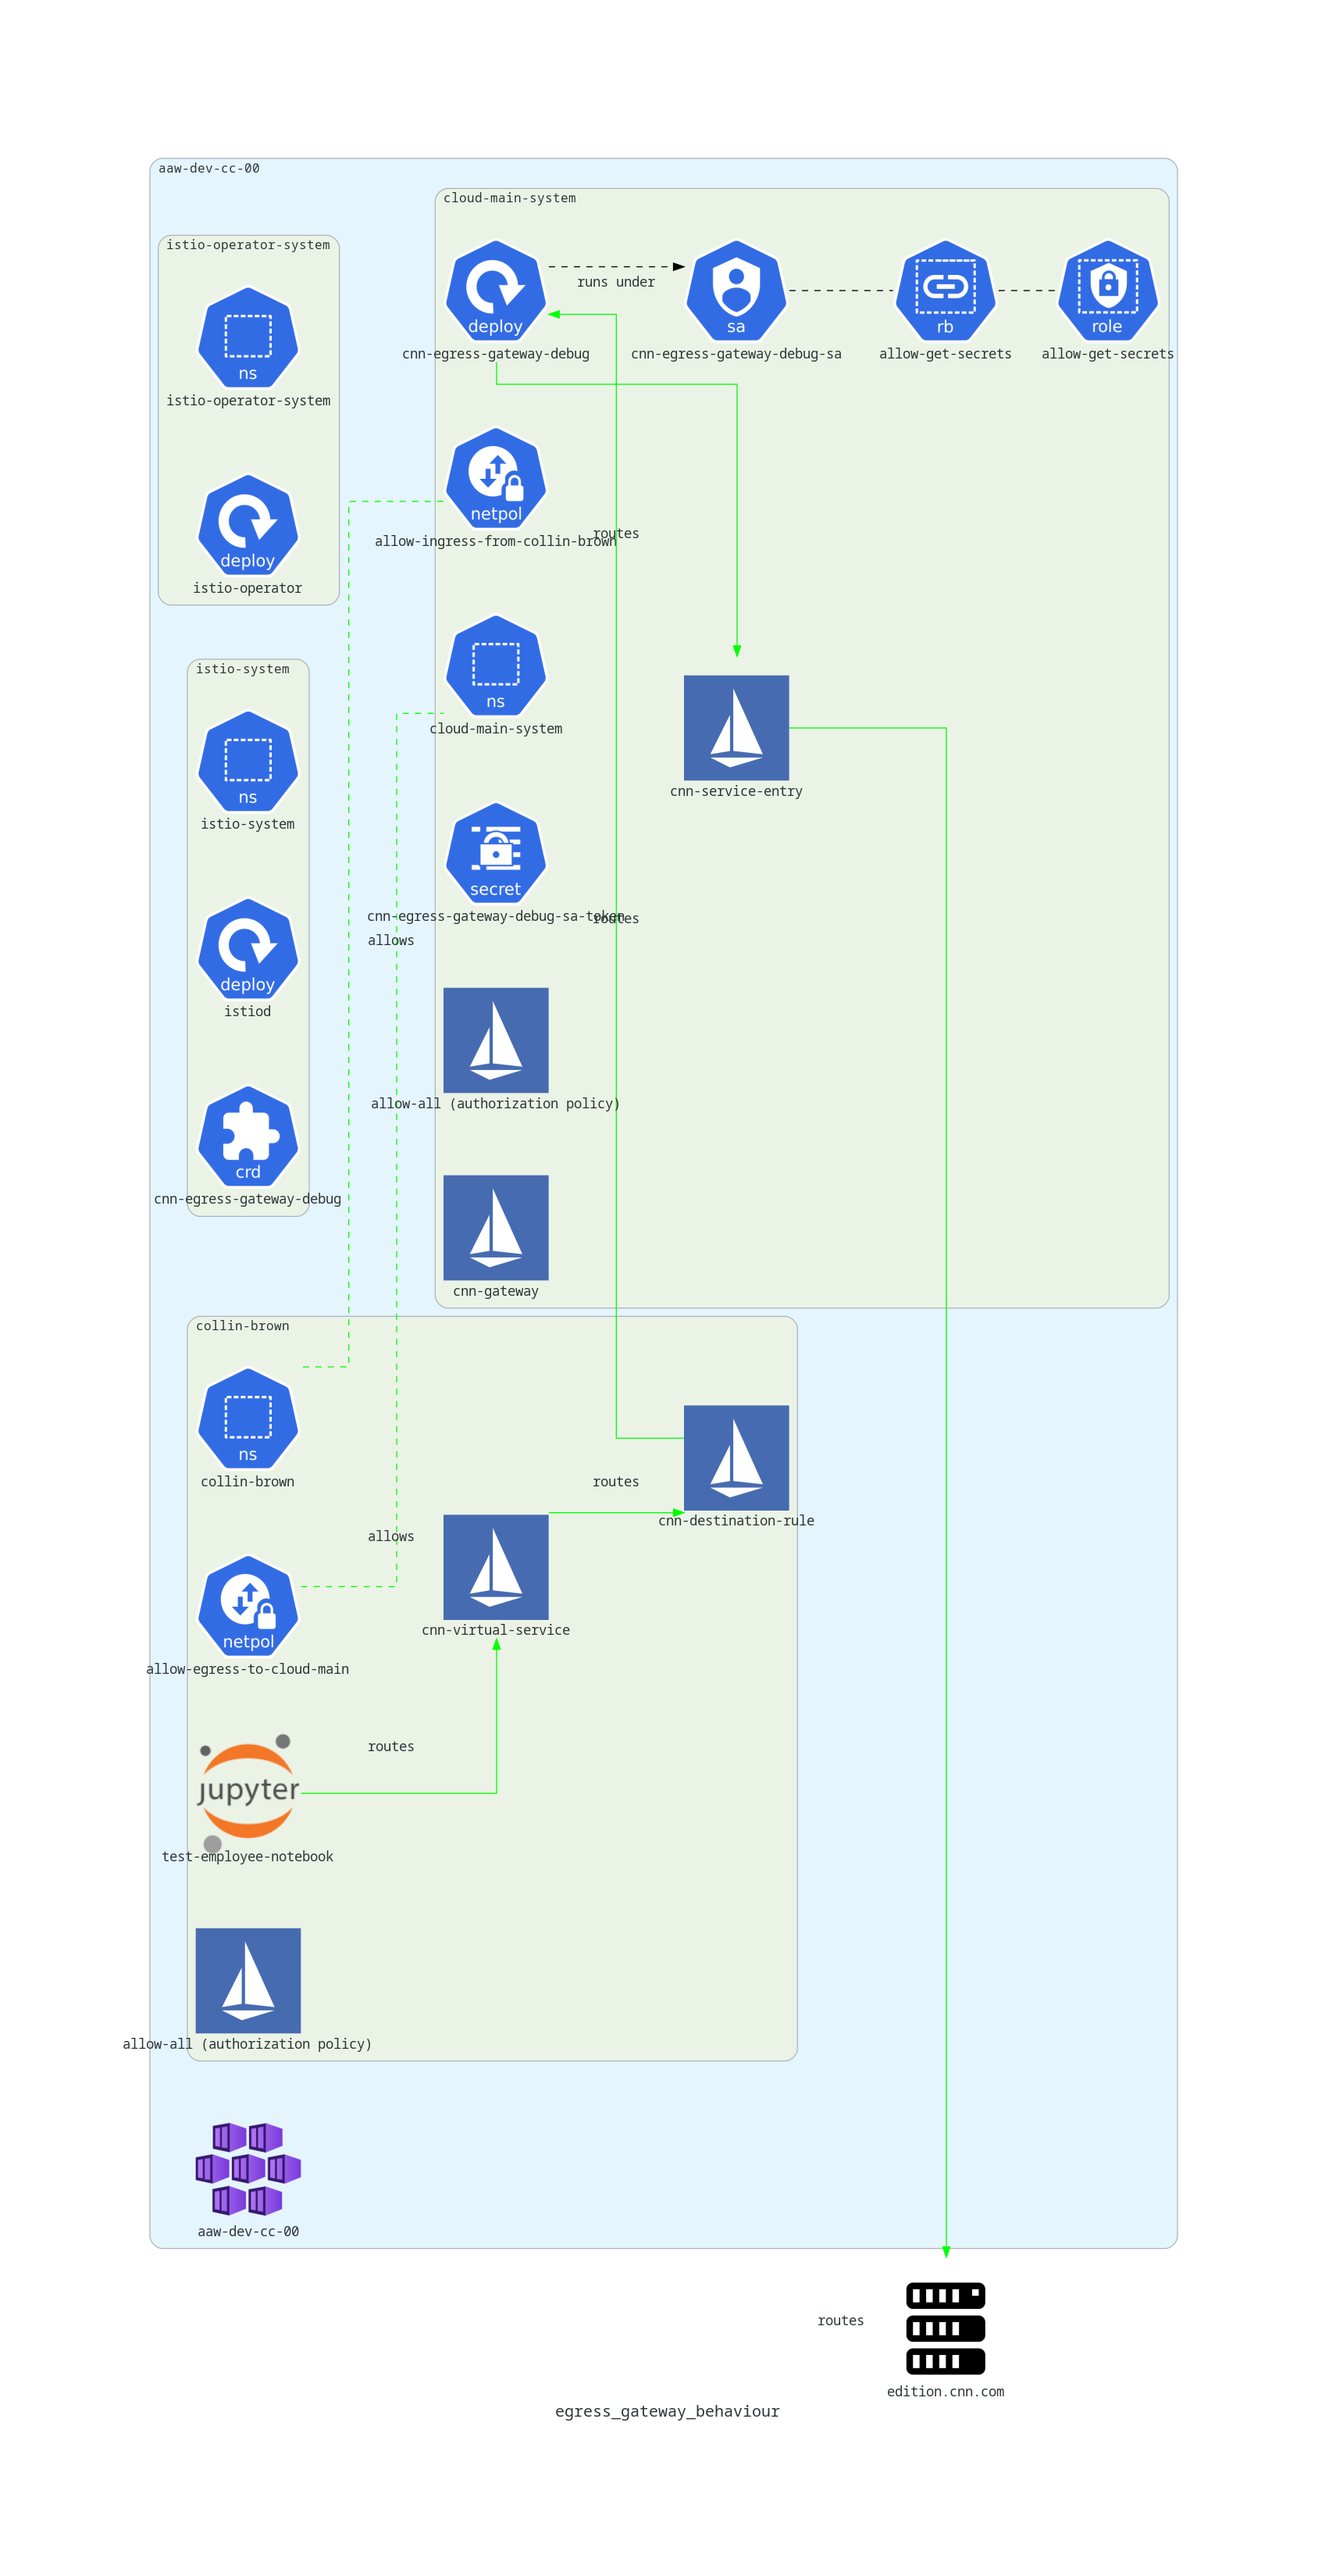
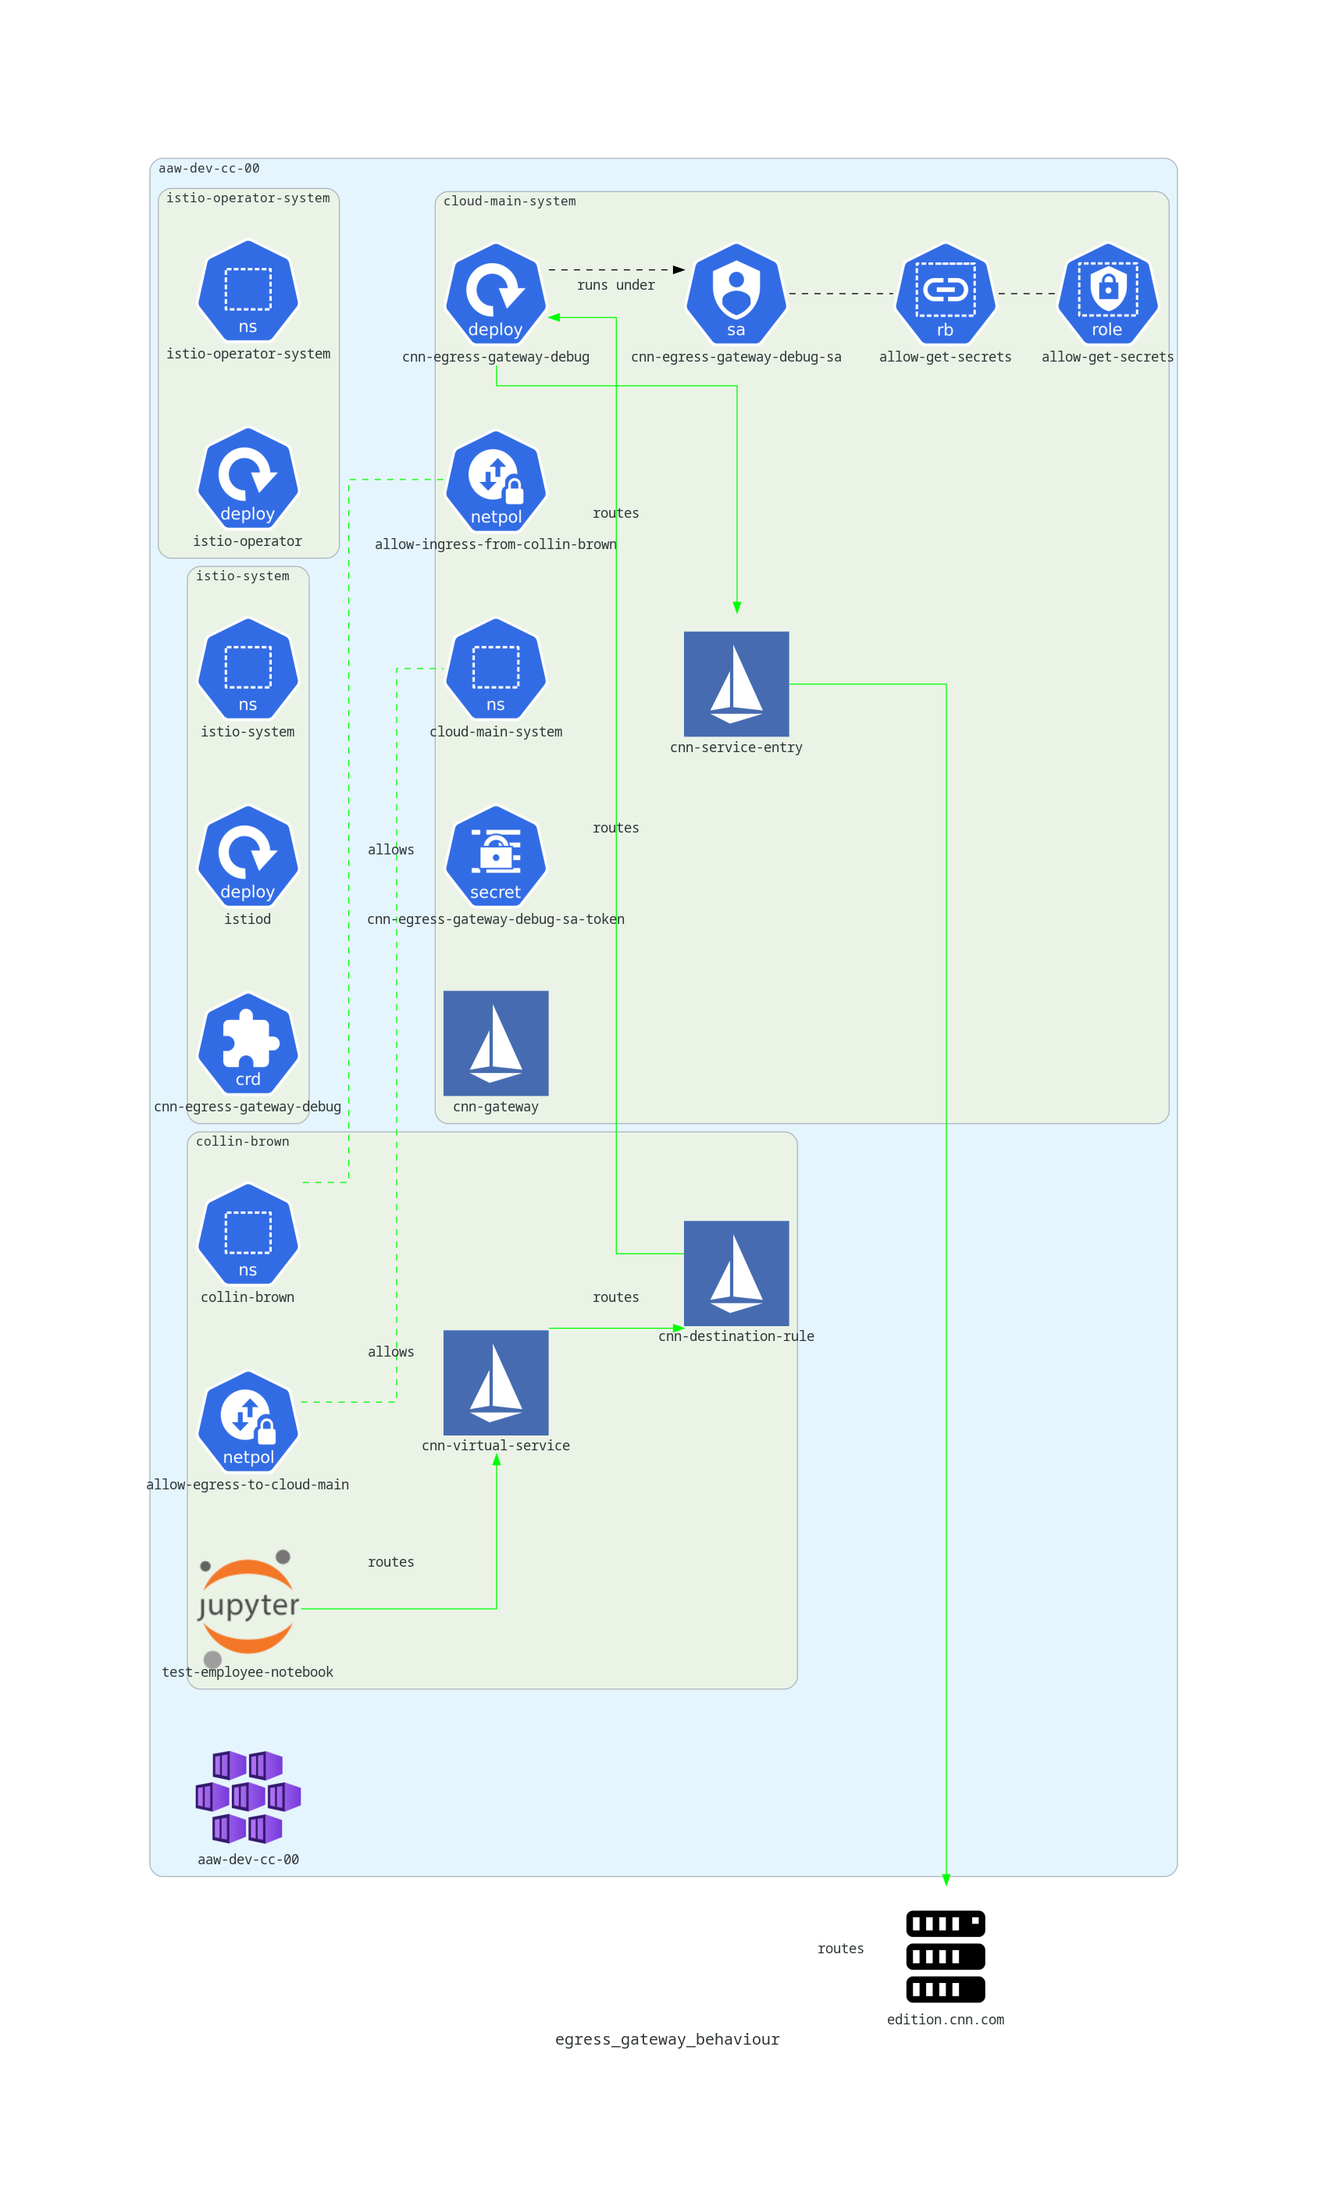
feat(authorizationpolicy): remove authorization policy

diff --git a/diagrams/egress_gateway_behaviour.py b/diagrams/egress_gateway_behaviour.py
@@ -40,7 +40,6 @@ with Diagram(myself(), show=False):
             # network policy
             allow_ingress_from_collin_brown = NetworkPolicy("allow-ingress-from-collin-brown")
             # istio
-            allow_all_ap_cms = Custom("allow-all (authorization policy)", icon_path="icons/istio.png")
             cnn_gateway = Custom("cnn-gateway", icon_path="icons/istio.png")
             cnn_service_entry = Custom("cnn-service-entry", icon_path="icons/istio.png")
         with Cluster("collin-brown"):
@@ -49,7 +48,6 @@ with Diagram(myself(), show=False):
             # network policy
             allow_egress_to_cloud_main = NetworkPolicy("allow-egress-to-cloud-main")
             # istio
-            allow_all_ap_cb = Custom("allow-all (authorization policy)", icon_path="icons/istio.png")
             cnn_virtual_service = Custom("cnn-virtual-service", icon_path="icons/istio.png")
             cnn_destination_rule = Custom("cnn-destination-rule", icon_path="icons/istio.png")
 

diff --git a/diagrams/egress_gateway_deployed_components.py b/diagrams/egress_gateway_deployed_components.py
@@ -40,7 +40,6 @@ with Diagram(myself(), show=False):
             # network policy
             allow_ingress_from_collin_brown = NetworkPolicy("allow-ingress-from-collin-brown")
             # istio
-            allow_all_ap_cms = Custom("allow-all (authorization policy)", icon_path="icons/istio.png")
             cnn_gateway = Custom("cnn-gateway", icon_path="icons/istio.png")
             cnn_service_entry = Custom("cnn-service-entry", icon_path="icons/istio.png")
         with Cluster("collin-brown"):
@@ -49,7 +48,6 @@ with Diagram(myself(), show=False):
             # network policy
             allow_egress_to_cloud_main = NetworkPolicy("allow-egress-to-cloud-main")
             # istio
-            allow_all_ap_cb = Custom("allow-all (authorization policy)", icon_path="icons/istio.png")
             cnn_virtual_service = Custom("cnn-virtual-service", icon_path="icons/istio.png")
             cnn_destination_rule = Custom("cnn-destination-rule", icon_path="icons/istio.png")
 
